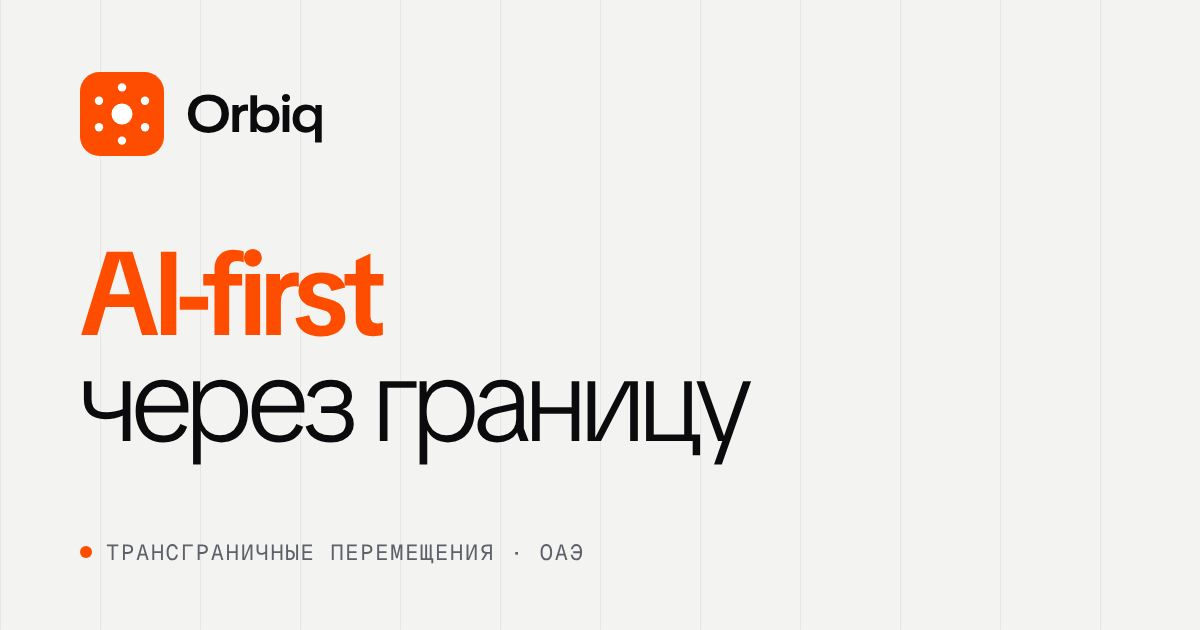
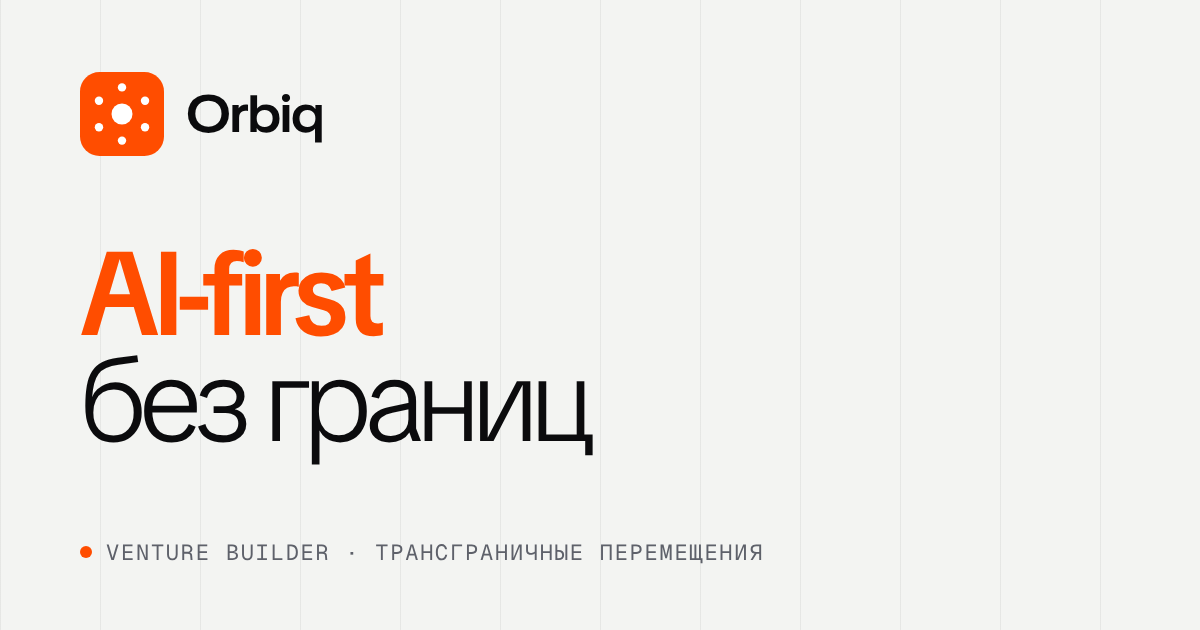
Слоган «AI-first без границ», ОАЭ убрана из сайта, презентации и превью
Claude-Session: https://claude.ai/code/session_019ezDZULnbs3xAvGiL498tC

Changed region(s): [[0.0617, 0.5429, 0.6475, 0.754], [0.0925, 0.8444, 0.6475, 0.9048]]

diff --git a/model/index.html b/model/index.html
@@ -236,7 +236,7 @@ function bar(g,x,y,w,h,parts){var acc=0;parts.forEach(function(p){var pw=w*p[0];
 
 /* ================= MAIN STAGE ================= */
 ov("intro",function(g){E("rect",{x:0,y:0,width:1280,height:720,"class":"f-ink"},g);E("use",{href:"#markbig",x:570,y:120,width:140,height:140},g);
-  TI(g,640,350,"Orbiq",84,"middle");SI(g,640,392,"AI-FIRST БИЗНЕСЫ · ЧЕРЕЗ ГРАНИЦУ · ОАЭ",.75,"middle");
+  TI(g,640,350,"Orbiq",84,"middle");SI(g,640,392,"AI-FIRST БИЗНЕСЫ · БЕЗ ГРАНИЦ",.75,"middle");
   ["Визы","Перевозка животных","Лекарства","Музыкальные инструменты","Искусство"].forEach(function(s,i){var w=[110,230,150,290,150][i],x=[145,275,525,695,1005][i];E("rect",{x:x,y:470,width:w,height:52,rx:26,fill:"none",stroke:"rgba(255,255,255,.35)","stroke-width":1.2},g);var t=T(g,x+w/2,502,s,"ttl",{"text-anchor":"middle","font-size":15});t.style.fill="var(--inv)"});
   SI(g,640,600,"ДВЕ КОМПАНИИ В РАБОТЕ · ШЕСТЬ НАПРАВЛЕНИЙ В ПОИСКЕ",.6,"middle")});
 var invGot,invSub;
@@ -247,7 +247,7 @@ actor("bld",function(g){box(g,40,480,290,210,"ОСНОВАТЕЛЬ И ПАРТН
   T(g,62,612,"ПЕРЕДАЕТ ДОЛИ В MAST И VISATO","sub");bldV=T(g,62,634,"ПО ЦЕНАМ РАУНДОВ","sub");T(g,62,656,"АЛЕКСЕЙ И АНДРЕЙ: ПО 5% ORBIQ","sub");bldT=T(g,62,678,"","sub",{fill:OR})});
 var vbV,vbL,vbW,vbW2;
 actor("vb",function(g){E("rect",{x:470,y:200,width:340,height:320,rx:28,"class":"f-ink"},g);
-  E("use",{href:"#markst",x:494,y:224,width:46,height:46},g);TI(g,554,250,"Orbiq",26);SI(g,554,270,"КОМПАНИЯ В ОАЭ",.7);
+  E("use",{href:"#markst",x:494,y:224,width:46,height:46},g);TI(g,554,250,"Orbiq",26);SI(g,554,270,"ОДНА КОМПАНИЯ",.7);
   vbL=SI(g,494,316,"ВНУТРИ ПО ЦЕНАМ РАУНДОВ",.7);vbV=TI(g,494,370,"$0",50);counter("vb",vbV,function(x){return money(x)});
   vbW=SI(g,494,404,"",.75);vbW2=SI(g,494,426,"",.55);
   E("line",{x1:494,y1:446,x2:786,y2:446,"stroke-width":1},g).style.stroke="rgba(255,255,255,.18)";
@@ -278,7 +278,7 @@ ov("ovPort",function(g){panel(g,"ПОРТФЕЛЬ · ДВЕ КОМПАНИИ");
   card(g,62,590,1156,76,false);T(g,86,636,"Цена раунда одна для всех участников: для Orbiq и для внешних инвесторов раунда.","txt",{"font-size":16})});
 ov("ovFast",function(g){panel(g,"БЫСТРАЯ ИНВЕСТИЦИЯ ЧЕРЕЗ ORBIQ · ПЕРЕВОД СРАЗУ ПРОЕКТУ");
   var X=[62,358,654,950];
-  [["1","Договор с Orbiq","Инвестор инвестирует в MAST или VisaTO через Orbiq. Orbiq входит в раунд от своего имени за счет инвестора.","День 1"],["2","Перевод сразу проекту","По поручению Orbiq инвестор переводит деньги на реквизиты проекта. В Orbiq деньги не заходят, банк ОАЭ не нужен.","Дни 2–5"],["3","Акции проекта","Проект выпускает акции на Orbiq, права по ним у инвестора. Пока Orbiq регистрируется, акции записаны на инвестора с обязательством передать их.","Дни 5–10"],["4","Сделка закрыта","После регистрации акции проекта переходят на Orbiq. Права по ним остаются у инвестора.","После регистрации"]].forEach(function(c,i){var x=X[i],rg=E("g",{"class":"pop"},g);var r=E("rect",{x:x,y:100,width:276,height:420,rx:22,"class":i===1?"f-ink":"f-bg"},rg);if(i!==1)r.style.stroke="var(--line)";var fg=i===1?"var(--inv)":"var(--ink)";
+  [["1","Договор с Orbiq","Инвестор инвестирует в MAST или VisaTO через Orbiq. Orbiq входит в раунд от своего имени за счет инвестора.","День 1"],["2","Перевод сразу проекту","По поручению Orbiq инвестор переводит деньги на реквизиты проекта. В Orbiq деньги не заходят.","Дни 2–5"],["3","Акции проекта","Проект выпускает акции на Orbiq, права по ним у инвестора. Пока Orbiq регистрируется, акции записаны на инвестора с обязательством передать их.","Дни 5–10"],["4","Сделка закрыта","После регистрации акции проекта переходят на Orbiq. Права по ним остаются у инвестора.","После регистрации"]].forEach(function(c,i){var x=X[i],rg=E("g",{"class":"pop"},g);var r=E("rect",{x:x,y:100,width:276,height:420,rx:22,"class":i===1?"f-ink":"f-bg"},rg);if(i!==1)r.style.stroke="var(--line)";var fg=i===1?"var(--inv)":"var(--ink)";
     T(rg,x+22,170,c[0],"big",{"font-size":64,fill:OR});wrapT(rg,x+22,222,c[1],20,"big",{"font-size":21,fill:fg},26);wrapT(rg,x+22,300,c[2],30,"txt",{fill:fg,"font-size":14.5},22);T(rg,x+22,494,c[3].toUpperCase(),"sub",{fill:OR});
     if(i<3){E("path",{d:"M"+(x+278)+" 300 l16 0",stroke:OR,"stroke-width":2.5,fill:"none"},rg);E("path",{d:"M"+(x+286)+" 292 l8 8 l-8 8",stroke:OR,"stroke-width":2.5,fill:"none"},rg)}rows("fast").push(rg)});
   card(g,62,544,1156,122,false);T(g,86,584,"Инвестор инвестирует через Orbiq, перевод идет сразу проекту по поручению Orbiq.","txt",{"font-size":16});T(g,86,612,"Компания получает деньги за дни, а не за месяцы открытия счета.","txt",{"font-size":16});T(g,86,640,"Так же проходят все следующие сделки, если компании нужны деньги быстро.","txt",{"font-size":16,fill:OR})});
@@ -754,7 +754,7 @@ var B=[
  {s:1,t:function(){return "<span class=\"hl\">Синергия основателей</span>10+ лет взаимодействия в различных проектах.<br><br>Синергия компетенций:<br>Владимир — стратегия и инвестиции<br>Андрей — Performance Marketing (CPA, ROAS)<br>Алексей — Organic Growth (SEO, GEO, масштабирование органического трафика)"},f:function(a,D){ovOnly("ovCore");rows("core").forEach(function(r,k){if(a){r.classList.add("off");later(250+k*380,function(){r.classList.remove("off")})}else r.classList.remove("off")})}},
  {s:2,t:function(){return "<span class=\"hl\">В составе Orbiq уже две компании</span><strong>MAST</strong> — AI-first технология монетизации трафика для владельцев сайтов, рынок платформ монетизации для владельцев сайтов $8,2 млрд.<br>1,5 года технологию применяли для монетизации собственных паблишеров, заработали инвесторам $1,7 млн.<br>2 последних месяца технологию превращали в продукт, которым могут пользоваться десятки тысяч внешних паблишеров.<br>С 20 октября началось масштабирование внутрь партнера-монетизатора, с ожидаемой выручкой $600 тыс. в год.<br><br><strong>VisaTO</strong> — AI-first сингапурская компания с лицензией, зарабатывает на выдаче виз, рынок визовых услуг $15,2 млрд. В компании ноль линейных сотрудников, за 3 мес. компания вышла на выручку $10 тыс. с 0 затрат на маркетинг. SEO и GEO обходятся в $200 подписку Claude. Порогом входа для вайбкодеров является лицензия стоимостью $70 тыс."},f:function(a,D){ovOnly(null);
    CO.forEach(function(c,j){setCo(j,c.mkt.split(" · ")[0],"РЫНОК · "+c.mkt.split(" · ").slice(1).join(" · ").toUpperCase(),"");if(a){off("c"+j);later(j*400,function(){on("c"+j)})}else on("c"+j)});on("plan");PLB.forEach(function(b,k){if(a){b.classList.add("off");later(1300+k*260,function(){b.classList.remove("off")})}else b.classList.remove("off")})}},
- {s:3,t:function(){return "Orbiq — одна компания в свободной зоне ОАЭ, один класс акций. Акционеры: основатель, два партнера — сооснователи первых двух проектов, и инвесторы первого раунда. Андрей отвечает за платный трафик, Алексей за SEO и GEO, у каждого по 5%. Портфель — активы компании: доли в MAST, VisaTO и новых компаниях. Фабрика — операционная работа: капитализация проектов, стратегия и прозрачная отчетность по каждому, привлечение капитала, рост за счет синергии, поиск новых проектов."},f:function(a,D){ovOnly("ovParts");runParts(a,D)}},
+ {s:3,t:function(){return "Orbiq — одна компания, один класс акций. Акционеры: основатель, два партнера — сооснователи первых двух проектов, и инвесторы первого раунда. Андрей отвечает за платный трафик, Алексей за SEO и GEO, у каждого по 5%. Портфель — активы компании: доли в MAST, VisaTO и новых компаниях. Фабрика — операционная работа: капитализация проектов, стратегия и прозрачная отчетность по каждому, привлечение капитала, рост за счет синергии, поиск новых проектов."},f:function(a,D){ovOnly("ovParts");runParts(a,D)}},
  {s:4,dur:2.4,t:function(){return "1. Orbiq на нулевом этапе зарабатывает на получении акций компаний: $250 тыс. акциями компании идут Orbiq в обмен на привлечение венчурного капитала и построение венчурной стратегии.<br>2. На первом этапе, когда Orbiq привлекает капитал в проекты, Orbiq получает рост капитализации на 25–35% (это 420% годовых). Это происходит за счет оплаты ритейнера в 10% от суммы привлеченного капитала в Orbiq.<br>Для первого инвестора в Orbiq — это 116% за 2–3 месяца.<br>3. На втором этапе Orbiq присоединяет новые проекты — получает еще по $250 тыс. акциями и по 10% ритейнером от суммы раунда.<br>4. На третьем этапе Orbiq зарабатывает на % с кросс-продаж между компаниями и выстраивает партнерскую сеть для продаж других продуктов клиентам группы (страхование, eSIM, услуги переводов и т. п.)."},f:function(a,D){ovOnly("ovBM");runBM(a,D)}},
  {s:5,t:function(){return "Модель уже работает на рынке. Hexa, бывшая eFounders: в 2015 году Hexa привлекла первые €5 млн, в 2016 еще €5 млн от 40 частных инвесторов, которые получили исключительное право входить в стартапы студии. Сейчас в портфеле 40 компаний стоимостью €4,5 млрд. Prytek: с 2017 года вложил в компании больше $350 млн, 180 сделок за три года, часть вложенных денег направляет на развитие бизнеса компаний — у нас ту же роль играет IR. За счет AI-технологий и синергии направлений с высокой маржой Orbiq планирует вырасти до оценки активов $500 млн+ за 3–4 года."},f:function(a,D){ovOnly("ovRef");runRef(a,D)}},
  {s:6,t:function(){return "Общая необходимая сумма для масштабирования — $1,5 млн. $1,5 млн позволяют закрыть текущие раунды инвестиций в проекты и сфокусироваться на масштабировании Orbiq."},f:function(a,D){ovOnly("ovNeed");showRows(rows("need"),a,D)}},
@@ -770,7 +770,7 @@ var B=[
 ];
 var ROLE={inv:["Инвесторы первого раунда","Сумма до $1,5 млн, каждый выбирает чек. Доля = вложено ÷ (то, что внутри + вложено). Голос по сделкам, защита в договоре."],
  bld:["Основатель и партнеры","Основатель вносит в Orbiq свои доли в MAST и VisaTO на $500 тыс., по оценке, по которой сейчас заходят инвесторы. Алексей (SEO и GEO) и Андрей (платный трафик) получают по 5% Orbiq."],
- vb:["Orbiq","Компания в ОАЭ. Портфель и фабрика. Оценка $4 млн."],
+ vb:["Orbiq","Одна компания. Портфель и фабрика. Оценка $4 млн."],
  c0:["MAST","AI-first технология монетизации трафика для владельцев сайтов. Рынок платформ монетизации $8,2 млрд. Контракт на $600 тыс. подписывается. Раунд $500 тыс. при $7 млн."],
  c1:["VisaTO","AI-first сингапурская компания с лицензией, зарабатывает на выдаче виз. Рынок визовых услуг $15,2 млрд. Раунд $750 тыс. при $4 млн, до 31 октября."],
  nc:["Фабрика","$250 тыс. на 4–6 новых компаний за 24 месяца, вход до первого раунда, доля за деньги и работу."]};

diff --git a/index.html b/index.html
@@ -4,9 +4,9 @@
 <head>
 <meta charset="utf-8">
 <meta name="viewport" content="width=device-width,initial-scale=1,viewport-fit=cover">
-<title>Orbiq · AI-first через границу</title>
+<title>Orbiq · AI-first без границ</title>
 <meta name="description" content="Orbiq строит компании, где документы двух стран для визы, переезда с питомцем и ввоза лекарств собирают AI-агенты. Первая, VisaTO, вышла на прибыль $10 тыс. без затрат на маркетинг.">
-<meta property="og:title" content="Orbiq · AI-first через границу">
+<meta property="og:title" content="Orbiq · AI-first без границ">
 <meta property="og:description" content="Компании, где документы двух стран для визы, переезда с питомцем и ввоза лекарств собирают AI-агенты. Первая, VisaTO, вышла на прибыль $10 тыс. без затрат на маркетинг.">
 <meta property="og:url" content="https://aiventurebuilder.xyz">
 <meta property="og:type" content="website">
@@ -334,8 +334,8 @@ button{font:inherit}
 
   <section class="hero" id="top">
     <div class="h-left">
-      <div class="kick mono"><span class="dot"></span>Orbiq · <b>ОАЭ</b></div>
-      <h1 class="display" id="h1"><span class="acc">AI-first</span><br><span class="lt">через границу</span></h1>
+      <div class="kick mono"><span class="dot"></span>Orbiq · <b>Venture Builder</b></div>
+      <h1 class="display" id="h1"><span class="acc">AI-first</span><br><span class="lt">без границ</span></h1>
       <p class="lead">Виза, переезд с&nbsp;питомцем, ввоз лекарств, гастроли с&nbsp;редким инструментом: каждый раз нужны документы двух стран, и&nbsp;их до&nbsp;сих пор собирают вручную. Мы строим компании, где эту работу делают AI-агенты. Первая, <b>VisaTO</b>, уже вышла на&nbsp;прибыль <b>$10&nbsp;тыс.</b> без затрат на&nbsp;маркетинг.</p>
       <div class="kpis">
         <a class="kpi" href="#portfolio"><b class="num"><span class="cu" data-to="2">2</span></b><span>компании в&nbsp;работе</span></a>
